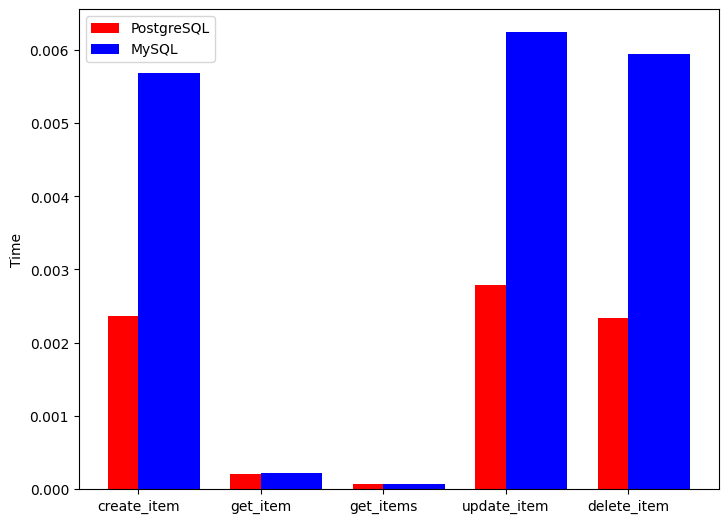
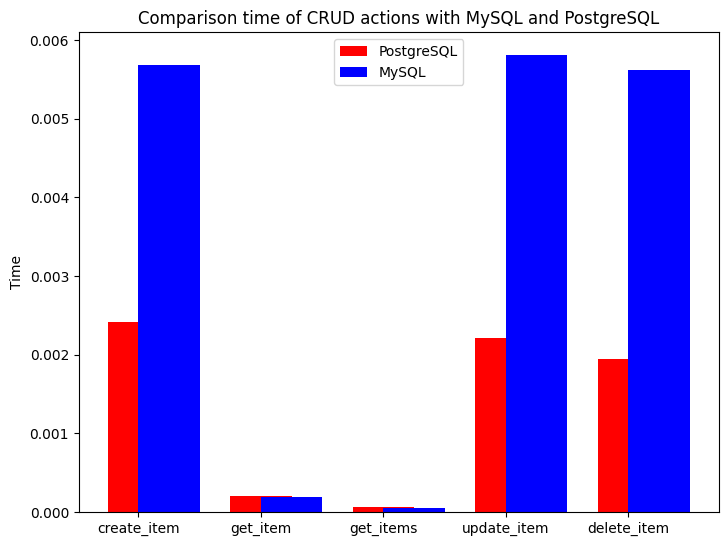
Add README, fix graphic, change model field id

diff --git a/request_script.py b/request_script.py
@@ -47,11 +47,12 @@ def generate_results(info: dict) -> None:
     width = 0.5
     ax.bar(count_bars + 0.00, postgresql_time, width, color='r')
     ax.bar(count_bars + 0.25, mysql_time, width, color='b')
-    ax.set_ylabel('Time')
+    ax.set_ylabel("Time")
+    ax.set_title("Comparison time of CRUD actions with MySQL and PostgreSQL")
     labels = [key for key, _ in postgresql.items()]
     ax.set_xticks(ticks=range(len(labels)), labels=labels)
-    ax.legend(labels=['PostgreSQL', 'MySQL'])
-    plt.savefig("results.png", bbox_inches='tight')
+    ax.legend(labels=["PostgreSQL", "MySQL"], loc="upper center")
+    plt.savefig("results.png", bbox_inches="tight")
 
 
 def set_results(
@@ -202,9 +203,7 @@ def main() -> None:
     }
     for db in info:
         port = PORT_SERVER_MYSQL if db == 'mysql' else PORT_SERVER_POSTGRESQL
-        url = (
-            f"http://0.0.0.0:{port}/users/"
-        )
+        url = f"http://0.0.0.0:{port}/users/"
         for user in users:
             user.passport_id = str(user.passport_id)
             user.passport_series = str(user.passport_series)

diff --git a/main/app/database/models.py b/main/app/database/models.py
@@ -7,11 +7,11 @@ class User(Base):
     """Model for each user."""
     __tablename__ = "users"
 
-    id = Column(Integer, primary_key=True, index=True)
+    id = Column(Integer, primary_key=True, autoincrement=True)
     name = Column(String(128))
     surname = Column(String(128))
     phone = Column(String(12), unique=True)
-    email = Column(String(32), unique=True)
+    email = Column(String(128), unique=True)
     passport_id = Column(String(4), unique=True)
     passport_series = Column(String(6), unique=True)
     created_at = Column(DateTime, default=func.now())

diff --git a/README.md b/README.md
@@ -1,0 +1,66 @@
+## Сравнение скорости CRUD операций (MySQL c PostgreSQL).
+
+Матвиенко Назар Артемович КИ20-16/1Б
+
+
+## Описание
+
+Проект был разработан для сравнения скорости выполнения следующих операций в СУБД MySQL и PostgreSQL:
+
+    - Создание элемента
+    - Получение элемента
+    - Получение всех элементов
+    - Обновление элемента
+    - Удаление элемента
+
+## Зависимости:
+    - Python - основной язык программирования
+    - FastAPI - сервер
+    - SQLAlchemy - orm для работы с СУБД
+    - FactoryBoy - генерация данных
+    - Requests - отправление запросов на сервер
+    - Matplotlib - генерация графика
+
+## Окружение
+1. Развёртывание производится на операционной системе Manjaro
+1. Требуется предустановленный интерпретатор Python версии 3.10.5, docker, docker-compose
+
+## Использование
+
+Запустим сервера с СУБД:
+
+```bash
+bash run_containers
+```
+
+После этого запустятся контейнеры с MySQL, FastAPI подключенным к MySQL, PostgreSQL, FastAPI подключенным к PostgreSQL. После запуска всех 4 контейнеров запустим скрипт для тестирования операций:
+
+```bash
+bash run_script
+```
+После запуска скрипта мы получим выходные данные в терминале и файла `results.png`. Пример выходных данных в терминале:
+
+Database: postgresql
+- create_item:
+  - Average time: 0.0024188995361328126
+  - Template query: INSERT INTO users (name, surname, phone, email, passport_id, passport_series, created_at) VALUES (%(name)s, %(surname)s, %(phone)s, %(email)s, %(passport_id)s, %(passport_series)s, now()) RETURNING users.id
+  - Example query: INSERT INTO users (name, surname, phone, email, passport_id, passport_series, created_at) VALUES ('Isaiah_new', 'Kennedy_new', '841273788', 'santanasydney@example.net', '6315', '61691', now()) RETURNING users.id
+- get_item:
+  - Average time: 0.00019975662231445313
+  - emplate query: SELECT users.id, users.name, users.surname, users.phone, users.email, users.passport_id, users.passport_series, users.created_at FROM users WHERE users.id = %(id_1)s
+  - Example query: SELECT users.id, users.name, users.surname, users.phone, users.email, users.passport_id, users.passport_series, users.created_at FROM users WHERE users.id = 12
+- get_items:
+  - Average time: 7.07864761352539e-05
+  - Template query: SELECT users.id, users.name, users.surname, users.phone, users.email, users.passport_id, users.passport_series, users.created_at FROM users
+  - Example query: SELECT users.id, users.name, users.surname, users.phone, users.email, users.passport_id, users.passport_series, users.created_at FROM users
+- update_item:
+  - Average time: 0.0022148942947387697
+  - Template query: UPDATE users SET name=%(name)s, surname=%(surname)s, phone=%(phone)s, email=%(email)s, passport_id=%(passport_id)s, passport_series=%(passport_series)s WHERE users.id = %(id_1)s
+  - Example query: UPDATE users SET name='Haley_new_new', surname='Henderson_new_new', phone='7882249105', email='jeffreyfrank@example.com', passport_id='850', passport_series='508324' WHERE users.id = 76
+- delete_item:
+  - Average time: 0.001939849853515625
+  - Template query: DELETE FROM users WHERE users.id = %(id_1)s
+  - Example query: DELETE FROM users WHERE users.id = 26
+
+
+![Файл results](results.png)
